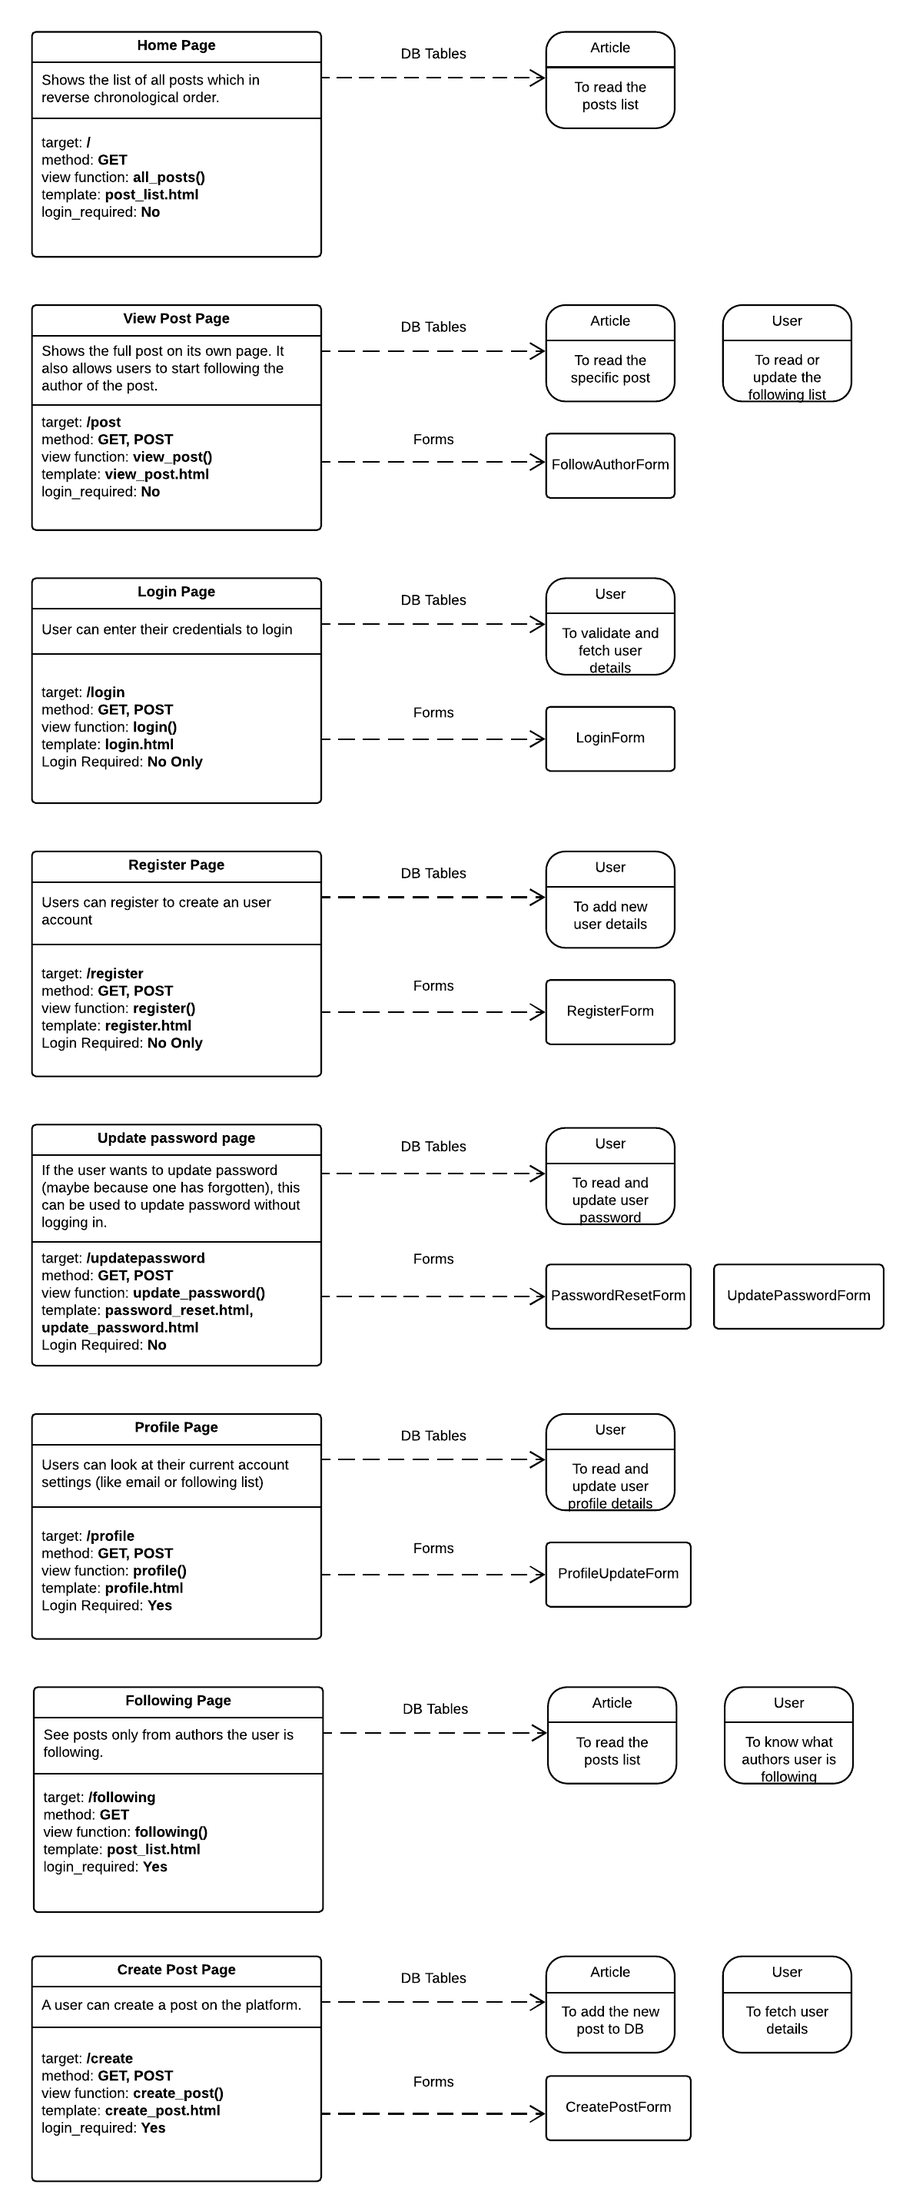
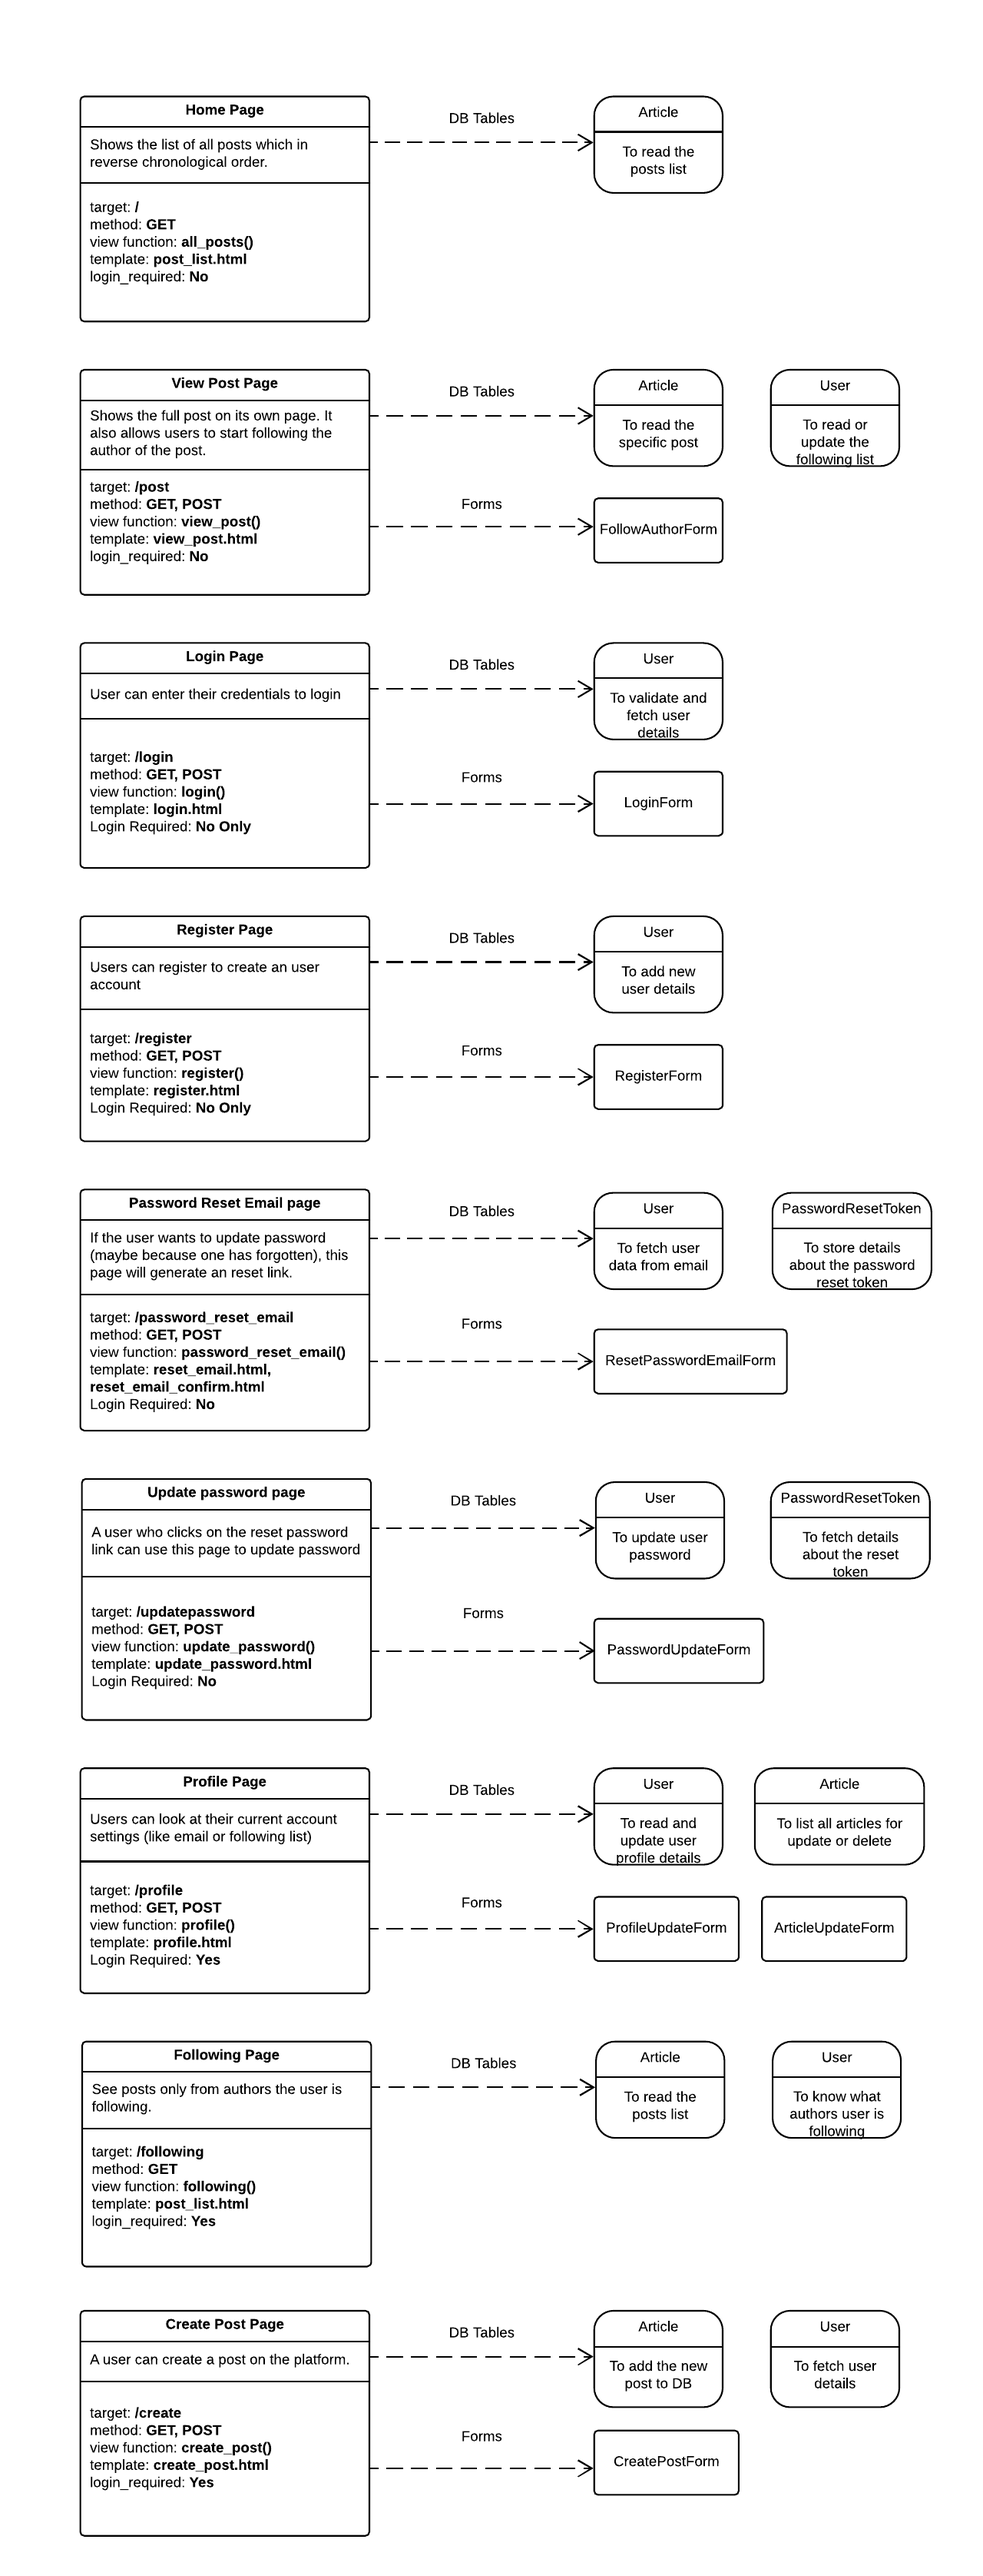
Add the flow for user password reset and using HTTPS for testing

diff --git a/lecture12/example_projects/writer_webapp/writer/templates/view_post.html b/lecture12/example_projects/writer_webapp/writer/templates/view_post.html
@@ -26,6 +26,8 @@
     {% endif %}<br>
     Published on: {{ article.publish_date.strftime("%d-%b-%Y") }}
 
+    <hr>
+
     <p>
     <div id="article_text"></div>
 

diff --git a/lecture12/example_projects/writer_webapp/writer/all_posts.py b/lecture12/example_projects/writer_webapp/writer/all_posts.py
@@ -15,15 +15,16 @@ def all_posts():
         .all()
     return render_template("posts_list.html", articles=articles)
 
+
 @app.route('/following')
 @login_required
 def following():
-    following = []
+    authors_following = []
     if current_user.following is not None:
-        following = json.loads(current_user.following)
+        authors_following = json.loads(current_user.following)
 
     articles = Article.query.filter(Article.publish_date.isnot(None)) \
-        .filter(Article.author_id.in_(following)) \
+        .filter(Article.author_id.in_(authors_following)) \
         .order_by(desc(Article.publish_date)) \
         .all()
     return render_template("posts_list.html", articles=articles)

diff --git a/lecture12/example_projects/writer_webapp/writer/update_password.py b/lecture12/example_projects/writer_webapp/writer/update_password.py
@@ -104,7 +104,7 @@ def _send_email(email, reset_token_id):
     print (email_text)
 
     # Normally we would use the code below to send email
-    # But to send emails, we need to setup an SMTP Email server
+    # But, to send emails, we need to setup an SMTP Email server
     # which can take some effort.
     #
     # email_message = MIMEText(email_text)

diff --git a/lecture12/example_projects/writer_webapp/config.py b/lecture12/example_projects/writer_webapp/config.py
@@ -1,4 +1,4 @@
 class Config:
     SECRET_KEY = 'really-hard-password'
-    SQLALCHEMY_DATABASE_URI = 'sqlite:///E:\database/writer2.db'
+    SQLALCHEMY_DATABASE_URI = 'sqlite:////home/aman/writer2.db'
     SERVER_NAME = '127.0.0.1:8080'

diff --git a/lecture12/example_projects/writer_webapp/debug_server.py b/lecture12/example_projects/writer_webapp/debug_server.py
@@ -2,7 +2,7 @@ from writer import app
 
 
 def main():
-    app.run(host='127.0.0.1', port=8080, debug=True)
+    app.run(host='127.0.0.1', port=8080, ssl_context=('cert.pem', 'key.pem'), debug=True)
 
 
 if __name__ == '__main__':

diff --git a/lecture12/user_accounts.md b/lecture12/user_accounts.md
@@ -705,4 +705,170 @@ These two pages are left as an exercise. Some things to keep in mind:
    - update, delete or move the published ones to draft status 
    - update, delete or publish the ones in draft status.
 
+### Update password flow
+
+In this section, we will implement the user flow as is typically used by most websites:
+ - when you want to change your password, you enter your email and get a link in your email to reset the password.
+ - That link takes you to a page that can let you update the password.
+ 
+ Here is a flowchart of how the implementation of this logic looks like:
+ 
+ ![With Cookie](https://raw.githubusercontent.com/amangup/coding-bootcamp/master/lecture12/password_reset_flow.png)
+ 
+- In case someone has forgotten the password, we place our trust in the fact that the user has private access to their email.
+- To verify the user, we generate a random token and send provide the user with that token, on their email.
+- That token needs to be stored in a DB, along with an expiration date (token automatically expires after one hour) and whether it's already been used.
+  * To be extremely safe, we don't store the token itself, but its hash. The reason is that if the tokens DB's data leaks, that can't be used to reset passwords.
+- Once the user uses that token, if the token is valid, not expired and unused, we can allow the user to set a new password.
+
+The first new element to this is the DB in which store the password reset tokens. Here is the code for that:
+
+```python
+class PasswordResetToken(db.Model):
+    token_hash = db.Column(db.String(128), primary_key=True)
+    user_id = db.Column(db.String(32), db.ForeignKey('user.id'), nullable=False)
+    token_expiration = db.Column(db.TIMESTAMP(timezone=True), nullable=False)
+    token_used = db.Column(db.Boolean, nullable=False)
+
+    user = db.relationship("User", lazy=False)
+
+    def __repr__(self):
+        return "{0}: {1}".format(self.token_hash, self.user_id)
+```
+- The primary key is the `token_hash`, which we'll use to find the token in the second part of the flow.
+- We have `token_expiration` and `token_used` fields, which are self explanatory
+- The `user_id` field is a foreign key to the `User` table to know which user is this token for.
+- We create a `db.relationship` to be able to access the user details more easily when we get the token. In this case, we've set `lazy=False` because we will need to know user details every time we get the token data.
+
+In the reset of the section, I am going to highlight a few import items to take care of.
+
+#### Password Reset Email page
+
+The first part of the flow is implemented in this view. To get an email from the user, we need to create a form, as follows:
+
+```python
+class ResetPasswordEmailForm(FlaskForm):
+    email = StringField("E-mail", validators=[DataRequired(), Email()])
+    send_reset_email = SubmitField("Send E-mail with Password Reset Link")
+```
+
+Once we've verified the email entered really does belong to a user of our website, we need to create a token and store those details in a DB.
+
+```python
+from datetime import datetime, timezone, timedelta
+from hashlib import blake2b
+from secrets import token_urlsafe
+
+
+def _add_reset_token_to_db(user):
+    reset_token_id = token_urlsafe(RESET_TOKEN_LENGTH)
+    token_hash = blake2b(reset_token_id.encode()).hexdigest()
+    token_expiration = datetime.now(timezone.utc) + timedelta(hours=1)
+
+    token = PasswordResetToken(user_id=user.id,
+                               token_hash=token_hash,
+                               token_expiration=token_expiration,
+                               token_used=False)
+    db.session.add(token)
+    db.session.commit()
+
+    return reset_token_id
+```
+
+- The token itself is generated from the `token_urlsafe()` function in the `secrets` module.
+- The _hash_ of the token is created using the `blake2b()` function in the `hashlib` module.
+  * You will note that this hash function is not the same as what we used for the password. There are two reasons why we use this one: first, this is very fast, and secondly, in the password hashing, we need to _salt_ it (add extra random characters to password before hashing), so that our password hash is not the same as any other website's hash of the same password. In the case of the reset token, this is not a problem as tokens are already unique.
+- We make it so that the token expires in one hour. This significantly reduces the chance that some malicious actor is able to intercept the token and then change the password without the real user noticing.
+
+To send an email, we have to use a module called `smtplib` in Python. Here is a link with some explanation on how email servers work using the **SMTP Protocol**: [https://www.makeuseof.com/tag/technology-explained-how-does-an-email-server-work/](https://www.makeuseof.com/tag/technology-explained-how-does-an-email-server-work/)
+
+The following code an example is a simple example and not realistic. This will not actually send an email because to do that we need a functioning email server. 
+
+```python
+import smtplib
+from email.mime.text import MIMEText
+
+EMAIL_SUBJECT = "Password Reset link"
+EMAIL_TEMPLATE = "Please use the link below to reset your password.\n{0}"
+EMAIL_SENDER_ADDRESS = 'noreply@mywriter.web'
+
+def _send_email(email, reset_token_id):
+    password_reset_url = url_for('update_password', _external=True,
+                                 token=reset_token_id)
+    email_text = EMAIL_TEMPLATE.format(password_reset_url)
+
+    email_message = MIMEText(email_text)
+    email_message['Subject'] = EMAIL_SUBJECT
+    email_message['From'] = EMAIL_SENDER_ADDRESS
+    email_message['To'] = email
+    
+    with smtplib.SMTP('smtp.server.com') as smtp:
+        smtp.send_message(email_message)
+```
+
+**Exercise:**
+To extend this code to make it work, you can use your Gmail/Yahoo/Outlook or any other email account to send these emails. Using `smtplib` to connect to these email services and sending emails is equivalent to using a desktop email to send email instead of using the website.
+
+Here are a couple of stack overflow links that can get you started for Gmail:
+- [https://stackoverflow.com/questions/10147455/how-to-send-an-email-with-gmail-as-provider-using-python](https://stackoverflow.com/questions/10147455/how-to-send-an-email-with-gmail-as-provider-using-python)
+- [https://stackoverflow.com/questions/26736062/sending-email-fails-when-two-factor-authentication-is-on-for-gmail#27130058](https://stackoverflow.com/questions/26736062/sending-email-fails-when-two-factor-authentication-is-on-for-gmail#27130058)
+
+In production websites, developers often use services like [SendGrid](https://sendgrid.com/) or [MailGun](https://www.mailgun.com/) to send emails which use HTTP based API to send emails.
+
+You can choose either method - SMTP server or using the email services described above (which you can test for free).
+
+#### Update password page
+
+This page is left as an **exercise**.
+- Create a page which allows the users to update their password once they click on the link. You would need to verify the token and another form to get their new password.
+- Design and implement a similar flow which confirms the user's email address. Whenever a new user registers, or an existing user changes their email id, the website should send an email to that id. Until the user's email is not verified, the user's account remains in _inactive_ state.
+
+### Using HTTPS
+
+Our website is not yet secure because we've not been using the HTTPS protocol to communicate with the client. Which means all the data that we get from the users through forms is susceptible.
+
+It's quite simple to enable HTTPS for testing locally. To do that, we need to:
+- Create a certificate which exposes our public key to the client.
+
+We can create the certificate as follows (run this in the same directory as `debug_server.py`) using the `openssl` tool (if it's not installed on your computer, search online for instructions).
+
+```
+openssl req -x509 -newkey rsa:4096 -nodes -out cert.pem -keyout key.pem -days 365
+Generating a 4096 bit RSA private key
+...............................................................................................++++
+...................++++
+writing new private key to 'key.pem'
+-----
+You are about to be asked to enter information that will be incorporated
+into your certificate request.
+What you are about to enter is what is called a Distinguished Name or a DN.
+There are quite a few fields but you can leave some blank
+For some fields there will be a default value,
+If you enter '.', the field will be left blank.
+-----
+Country Name (2 letter code) [AU]:US
+State or Province Name (full name) [Some-State]:CA
+Locality Name (eg, city) []:San Francisco
+Organization Name (eg, company) [Internet Widgits Pty Ltd]:SF Coding Bootcamp
+Organizational Unit Name (eg, section) []:
+Common Name (e.g. server FQDN or YOUR name) []:localhost
+Email Address []:aman@mydomain.com
+```
+
+This creates two files `cert.pem` (which is the certificate containing the public key) and `key.pem` (which is the corresponding private key).
+
+- Run the flask app so that it uses that certificate.
+
+You can add an argument `ssl_context` to the `app.run()` method call as follows:
+
+```python
+app.run(host='127.0.0.1', port=8080, ssl_context=('cert.pem', 'key.pem'), debug=True)
+```
+
+This will make your website available at the address `https://127.0.0.1:8080/` (note the s). 
+But when you open that link, you browser will warn you that this website is not safe. This is because our certificate is not authorized by an independent organization which the browsers trusts to have _signed_ the certificate. You can add an exception though, to let this site through, and then you will be able to use your website using the HTTPS protocol.
+ 
+For production websites, we need to get a certificate from a third party, but discussing that is out of the scope of this tutorial. If you're interested, you should checkout [Let's Encrypt](https://letsencrypt.org/) using which you can get your HTTPS certificates for free by yourself.
+
+
    
